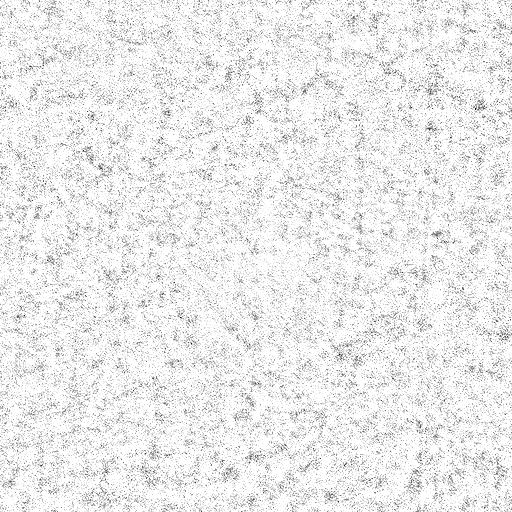
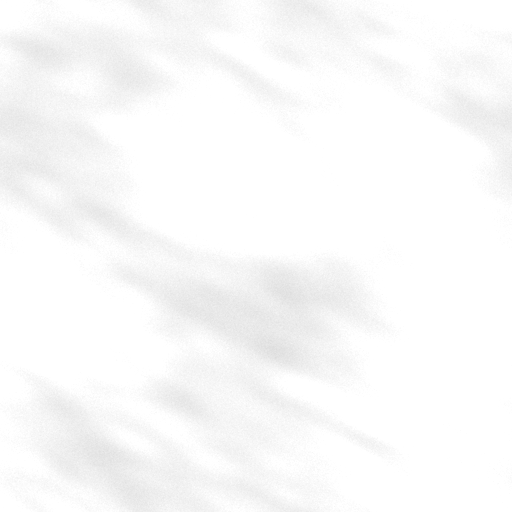
Table cloths: a new velvet and a Baize option
The velvet scan (Velour Velvet) read as blotchy, chalky carpet once shrunk onto a table.
The velvet is now generated by build_table_tiles.py: broad soft sheen brushed along the nap
over a faint pile, laid at 240 units a tile so it never sparkles. Baize is a new cloth for
every kind of table, from Poly Haven's Caban scan, fine fibres only (tight high-pass).

The shades' high-pass now wraps round so the tiles have no seam, and downloads send a
User-Agent, which Poly Haven now needs.

Changed region(s): [[0.0, 0.0, 1.0, 1.0]]

diff --git a/server/casino_server/table_styles_web/render.js b/server/casino_server/table_styles_web/render.js
@@ -11,7 +11,7 @@ const TEX = {};      // the tiles, by name
 export async function loadAssets(base) {
   G = await fetch(base + "geometry.json").then(r => { if (!r.ok) throw new Error("no geometry.json"); return r.json(); });
   const files = { mahogany: "wood_mahogany.jpg", walnut: "wood_walnut.jpg", wenge: "wood_wenge.jpg", rosewood: "wood_rosewood.jpg",
-    ebony: "wood_ebony.jpg", leather: "leather_shade.png", grain: "felt_grain.png", weave: "weave_shade.png", velvet: "velvet_shade.png", carpet: "carpet.png", dealer: "dealer.png" };
+    ebony: "wood_ebony.jpg", leather: "leather_shade.png", grain: "felt_grain.png", weave: "weave_shade.png", baize: "baize_shade.png", velvet: "velvet_shade.png", carpet: "carpet.png", dealer: "dealer.png" };
   await Promise.all(Object.entries(files).map(([k, f]) => new Promise(res => { const i = new Image(); i.onload = () => { TEX[k] = i; res(); };
     i.onerror = () => { const c = document.createElement("canvas"); c.width = c.height = 4; TEX[k] = c; res(); }; i.src = base + "textures/" + f; })));
   await Promise.all(Object.entries(FONT_FILES).map(([family, [file, weight]]) =>
@@ -49,7 +49,7 @@ export const BACK_MAIN = { charcoal: "#34373c", lattice: "#8e1a22", sunburst: "#
 export const SLOTS = [
   { id: "felt", label: "Felt", keys: ["felt"], ctl: [
     { key: "felt.colour", type: "swatch", options: FELTS, custom: true, label: "Colour" },
-    { key: "felt.texture", type: "seg", options: [["weave", "Woven"], ["velvet", "Velvet"], ["plain", "Plain"]], label: "Cloth" },
+    { key: "felt.texture", type: "seg", options: [["weave", "Woven"], ["baize", "Baize"], ["velvet", "Velvet"], ["plain", "Plain"]], label: "Cloth" },
     { key: "felt.vignette", type: "range", label: "Darker towards the rail" }] },
   { id: "border", label: "Border line", keys: ["border", "led"], ctl: [
     { key: "border", type: "seg", options: [["none", "None"], ["pinstripe", "Pinstripe"], ["gilt", "Gilt"], ["double", "Double"], ["deco", "Deco"], ["led", "LED glow"]] },
@@ -93,7 +93,7 @@ export const VIEWS = { seated: ["Seated", [-166, -188, 332, 242]], table: ["Whol
   bay: ["Bay close-up", [-112, -160, 224, 70]], seat: ["One seat", [-16, -98, 82, 108]] };
 
 // Roulette's and Craps' own parts (table_styles.KINDS: their House is how they looked before styles, "today").
-const CLOTHS = [["grain", "Fine grain (today)"], ["weave", "Woven"], ["velvet", "Velvet"], ["plain", "Plain"]];
+const CLOTHS = [["grain", "Fine grain (today)"], ["weave", "Woven"], ["baize", "Baize"], ["velvet", "Velvet"], ["plain", "Plain"]];
 const PAD_LEATHERS = [["Brown (today)", "#2a140a"], ...LEATHERS];
 const feltSlot = { id: "felt", label: "Felt", ctl: [
   { key: "felt.colour", type: "swatch", options: FELTS, custom: true, label: "Colour" },
@@ -308,7 +308,7 @@ function drawFelt(ctx, S, D, felt) {
   const g = ctx.createRadialGradient(mx, my, 0, mx, my, S.reach / 2);
   g.addColorStop(0, rgba(lighten(c, 0.07), 1)); g.addColorStop(0.35, c); g.addColorStop(1, darken(c, 0.25 + 0.45 * D.felt.vignette));
   fillBox(ctx, S, g);
-  const cloth = { velvet: ["velvet", 70, 0.85], weave: ["weave", 16, 0.7], grain: ["grain", 40, 0.25] }[D.felt.texture];
+  const cloth = { velvet: ["velvet", 240, 0.85], baize: ["baize", 120, 0.85], weave: ["weave", 16, 0.7], grain: ["grain", 40, 0.25] }[D.felt.texture];
   if (cloth) {
     ctx.globalAlpha = cloth[2];
     fillBox(ctx, S, pat(ctx, cloth[0], cloth[1]));

diff --git a/tools/build_table_tiles.py b/tools/build_table_tiles.py
@@ -4,9 +4,10 @@ Builds the table styles' material tiles from Poly Haven's CC0 scans, for the gam
 table designer alike, so both draw from the same pictures:
 
   client/assets/tiles/table/wood_<name>.jpg      the rail woods, 512px, grain running left to right
-  client/assets/tiles/table/<name>_shade.png     the leather and felt grain: white where the scan is lighter
+  client/assets/tiles/table/<name>_shade.png     the leather and cloth grain: white where the scan is lighter
                                                  than its average, black where darker, the difference as alpha,
-                                                 so drawn over any colour it lightens and darkens it
+                                                 so drawn over any colour it lightens and darkens it. The velvet
+                                                 is made here rather than scanned: soft sheen brushed along the nap
   server/casino_server/table_styles_web/textures/  the same files, plus the carpet, the dealer and the fine felt grain
                                                  (Roulette's and Craps' House cloth) for the designer
   server/casino_server/table_styles_web/fonts/     the game's lettering fonts, for the designer
@@ -20,6 +21,7 @@ import shutil
 import urllib.request
 from pathlib import Path
 
+import numpy as np
 from PIL import Image, ImageChops, ImageEnhance, ImageFilter, ImageOps, ImageStat
 
 ROOT = Path(__file__).resolve().parents[1]
@@ -39,8 +41,14 @@ WOODS = {
 SHADES = {
     "leather": ("leather_white", 512, 16, 0.8),
     "weave": ("terlenka", 256, 8, 1.0),
-    "velvet": ("velour_velvet", 512, 20, 1.0),
+    "baize": ("caban", 384, 5, 0.7),
 }
+
+
+def fetch(url: str) -> bytes:
+    """Poly Haven turns away urllib's own User-Agent."""
+    with urllib.request.urlopen(urllib.request.Request(url, headers={"User-Agent": "CasinoWorld-tiles/1"})) as r:
+        return r.read()
 
 
 def source(asset_id: str) -> Image.Image:
@@ -48,11 +56,8 @@ def source(asset_id: str) -> Image.Image:
     CACHE.mkdir(parents=True, exist_ok=True)
     path = CACHE / f"{asset_id}.jpg"
     if not path.exists():
-        with urllib.request.urlopen(f"https://api.polyhaven.com/files/{asset_id}") as r:
-            files = json.load(r)
-        url = files["Diffuse"]["1k"]["jpg"]["url"]
-        with urllib.request.urlopen(url) as r:
-            path.write_bytes(r.read())
+        files = json.loads(fetch(f"https://api.polyhaven.com/files/{asset_id}"))
+        path.write_bytes(fetch(files["Diffuse"]["1k"]["jpg"]["url"]))
     return Image.open(path).convert("RGB").resize((1024, 1024), Image.LANCZOS)
 
 
@@ -73,16 +78,40 @@ def wood(name: str) -> Image.Image:
 def shade(name: str) -> Image.Image:
     asset, size, blur, gain = SHADES[name]
     grey = ImageOps.grayscale(source(asset)).resize((size, size), Image.LANCZOS)
-    hp = ImageChops.subtract(grey, grey.filter(ImageFilter.GaussianBlur(blur)), scale=1.0, offset=128)
+    tiled = Image.new("L", (size * 3, size * 3))   # blurred as a 3x3 of itself, so the high-pass tiles without a seam
+    for y in range(3):
+        for x in range(3):
+            tiled.paste(grey, (x * size, y * size))
+    blurred = tiled.filter(ImageFilter.GaussianBlur(blur)).crop((size, size, 2 * size, 2 * size))
+    hp = ImageChops.subtract(grey, blurred, scale=1.0, offset=128)
     k = 22.0 * gain / max(ImageStat.Stat(hp).stddev[0], 0.5)   # gain 1: a spread of 22 grey levels
-    out = Image.new("RGBA", hp.size)
-    px, src = out.load(), hp.load()
-    for y in range(size):
-        for x in range(size):
-            d = (src[x, y] - 128) * k
-            v = 255 if d > 0 else 0
-            px[x, y] = (v, v, v, min(255, round(abs(d) * 2.2)))
-    return out
+    return shade_tile((np.asarray(hp, float) - 128) * k)
+
+
+def shade_tile(d: np.ndarray) -> Image.Image:
+    """Grey-level differences to a shade: white where lighter, black where darker, the difference (x2.2) as alpha."""
+    v = np.where(d > 0, 255, 0)
+    a = np.clip(np.round(np.abs(d) * 2.2), 0, 255)
+    return Image.fromarray(np.stack([v, v, v, a], -1).astype(np.uint8), "RGBA")
+
+
+def noise(size: int, wavelength: float, stretch: float = 1.0, angle: float = 0.0, seed: int = 0) -> np.ndarray:
+    """Tiling noise with features about `wavelength` px across, `stretch` times longer along `angle` (radians):
+    white noise low-passed in frequency space, so it wraps at the edges. Mean 0, deviation 1."""
+    white = np.random.default_rng(seed).standard_normal((size, size))
+    fy, fx = np.fft.fftfreq(size)[:, None], np.fft.fftfreq(size)[None, :]
+    u = (fx * np.cos(angle) + fy * np.sin(angle)) * stretch
+    v = -fx * np.sin(angle) + fy * np.cos(angle)
+    out = np.real(np.fft.ifft2(np.fft.fft2(white) * np.exp(-(u * u + v * v) * wavelength ** 2)))
+    return (out - out.mean()) / out.std()
+
+
+def velvet(size: int = 512) -> Image.Image:
+    """Velvet: broad soft sheen where the pile lies one way or the other, drawn out along the nap, over a very
+    faint fine pile. No speckle, so it reads as plush rather than as carpet."""
+    sheen = 0.8 * noise(size, 120, 2.2, 0.45, seed=1) + 0.4 * noise(size, 30, 2.9, 0.45, seed=2)
+    d = sheen / sheen.std() + 0.18 * noise(size, 1.4, seed=3)
+    return shade_tile(d * 5.5)
 
 
 def main():
@@ -92,8 +121,8 @@ def main():
         im = wood(name)
         for out in (OUT_GAME, OUT_WEB):
             im.save(out / f"wood_{name}.jpg", quality=86)
-    for name in SHADES:
-        im = shade(name)
+    shades = {name: shade(name) for name in SHADES} | {"velvet": velvet()}
+    for name, im in shades.items():
         for out in (OUT_GAME, OUT_WEB):
             im.save(out / f"{name}_shade.png", optimize=True)
     # The designer's stage: the floor's carpet and the dealer, as the game has them.
@@ -105,7 +134,7 @@ def main():
     fonts.mkdir(exist_ok=True)
     for name in ("Cinzel-SemiBold", "CormorantSC-Bold", "JosefinSans-SemiBold", "Montserrat-SemiBold", "DejaVuSans-Bold"):
         shutil.copy(ROOT / "client" / "assets" / "fonts" / f"{name}.ttf", fonts / f"{name}.ttf")
-    print(f"wrote {len(WOODS)} woods and {len(SHADES)} shades to {OUT_GAME.relative_to(ROOT)} and {OUT_WEB.relative_to(ROOT)}")
+    print(f"wrote {len(WOODS)} woods and {len(shades)} shades to {OUT_GAME.relative_to(ROOT)} and {OUT_WEB.relative_to(ROOT)}")
 
 
 if __name__ == "__main__":

diff --git a/server/casino_server/table_styles.py b/server/casino_server/table_styles.py
@@ -88,7 +88,7 @@ BUILT_IN = {
 
 WOODS = ("mahogany", "walnut", "wenge", "rosewood", "ebony")
 CHOICES = {
-    "felt.texture": ("weave", "velvet", "plain"),
+    "felt.texture": ("weave", "baize", "velvet", "plain"),
     "border": ("none", "pinstripe", "gilt", "double", "deco", "led"),
     "rail.wood": WOODS,
     "rail.armrest": ("none", "player", "all"),
@@ -170,7 +170,7 @@ CRAPS_BUILT_IN = {
     "cards": _preset("Card tables' House", CRAPS_HOUSE, felt=copy.deepcopy(HOUSE["felt"]), rail=copy.deepcopy(HOUSE["rail"]),
                      print__ink=HOUSE["print"]["ink"]),
 }
-FELT_TEXTURES = ("grain", "weave", "velvet", "plain")
+FELT_TEXTURES = ("grain", "weave", "baize", "velvet", "plain")
 DICE = ("red", "green", "blue", "smoke", "amber", "violet")
 
 KINDS = {

diff --git a/docs/table_styles/LICENSES.md b/docs/table_styles/LICENSES.md
@@ -14,10 +14,14 @@ The assets live in three places:
 
 The game and designer tiles are the same scans, processed by `tools/build_table_tiles.py`:
 - **Woods** (`wood_<name>.jpg`, 512 px): the adjustments below, plus a faint warm tint laid over with "screen".
-- **Leather and felt** (`leather_shade.png`, `velvet_shade.png`, `weave_shade.png`): the high-pass detail turned
-  into white where lighter and black where darker, with the difference as alpha.
+- **Leather and cloth** (`leather_shade.png`, `weave_shade.png`, `baize_shade.png`): the high-pass detail (taken
+  with the scan wrapped round, so it tiles without a seam) turned into white where lighter and black where darker,
+  with the difference as alpha. Leather is from Leather White, the woven cloth from Terlenka and the baize from
+  [Caban](https://polyhaven.com/a/caban) (colormass, photography; Rico Cilliers, processing; fetched 2026-10-21), 384 px.
+- **Velvet** (`velvet_shade.png`): made by the script from noise (soft sheen brushed along the nap over a faint
+  pile), not from a scan, so it has no outside source.
 
-The table below describes the mockup's copies.
+The table below describes the mockup's copies (the mockup still has the first velvet, from the Velour Velvet scan).
 
 All of these are from [Poly Haven](https://polyhaven.com) under [CC0 1.0](https://creativecommons.org/publicdomain/zero/1.0/).
 That means no attribution is required, but we give it anyway. Each was fetched on 2026-10-21 as its 1k diffuse JPG

diff --git a/docs/tables.md b/docs/tables.md
@@ -8,7 +8,7 @@ The tables are drawn in code, as is the room (`scenes/world/room.gd`), so they s
 
 **Every table is drawn in its table style.** A style is a design made on the admin page's Tables tab, which has
 a tab for each kind of table, because they have different parts:
-- **Card Games:** the felt (colour, velvet or woven grain, how much darker it gets towards the rail) and a border
+- **Card Games:** the felt (colour, a woven, baize or velvet cloth, how much darker it gets towards the rail) and a border
   line; the rail (one of five woods, a leather armrest or leather all round, a brass/gold/chrome bead where it
   meets the felt); the chip tray (a well cut into a dealer's ledge, or sunk in where it's always been, in three
   finishes); the printing's font and colours, and the betting spots' artwork; the Jackpot disc, the shuffler,

diff --git a/client/assets/tiles/table/CREDITS.md b/client/assets/tiles/table/CREDITS.md
@@ -2,5 +2,5 @@
 
 The wood, leather and felt tiles here are made by `tools/build_table_tiles.py` from Poly Haven scans (CC0 1.0, no
 attribution required): Dark Wood, Lacquered Cherry Wood, Wood Table 001, Rosewood Veneer 1, Flamed Black Veneer,
-Leather White, Terlenka and Velour Velvet. The authors, sources and what was done to each are in
-`docs/table_styles/LICENSES.md`.
+Leather White, Terlenka and Caban. The velvet is generated by the script, not scanned. The authors, sources and
+what was done to each are in `docs/table_styles/LICENSES.md`.
